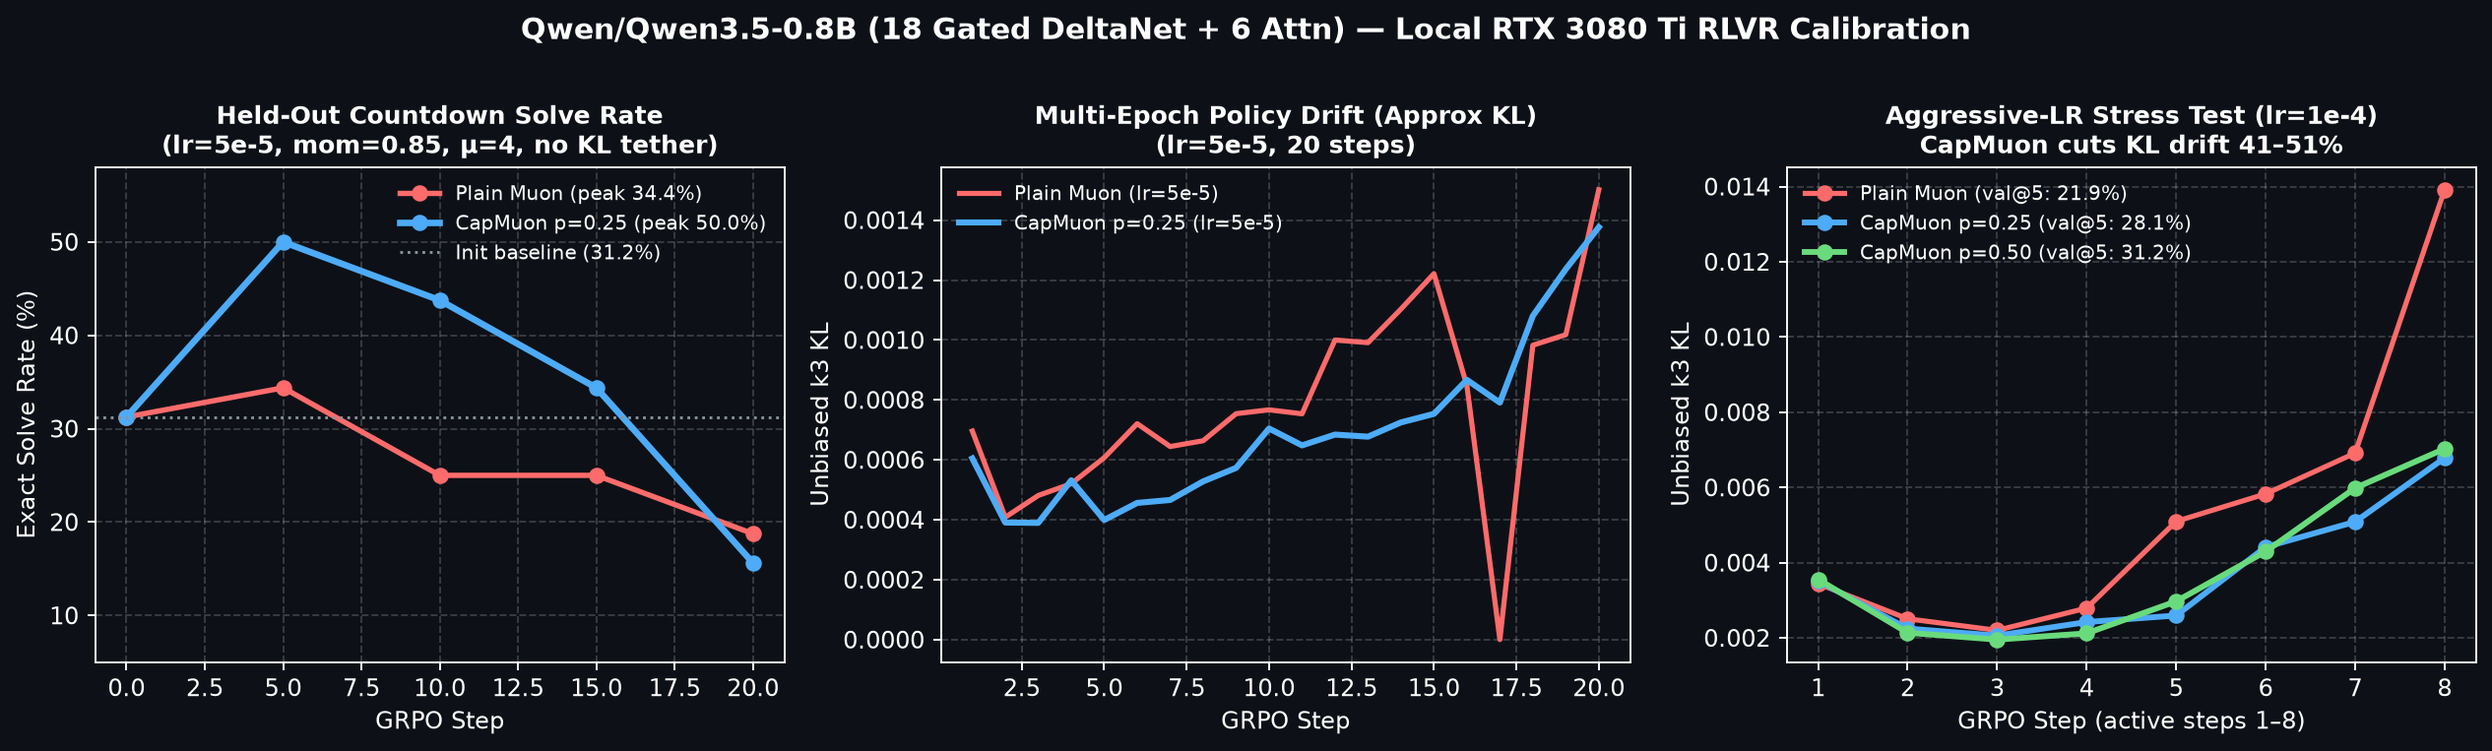
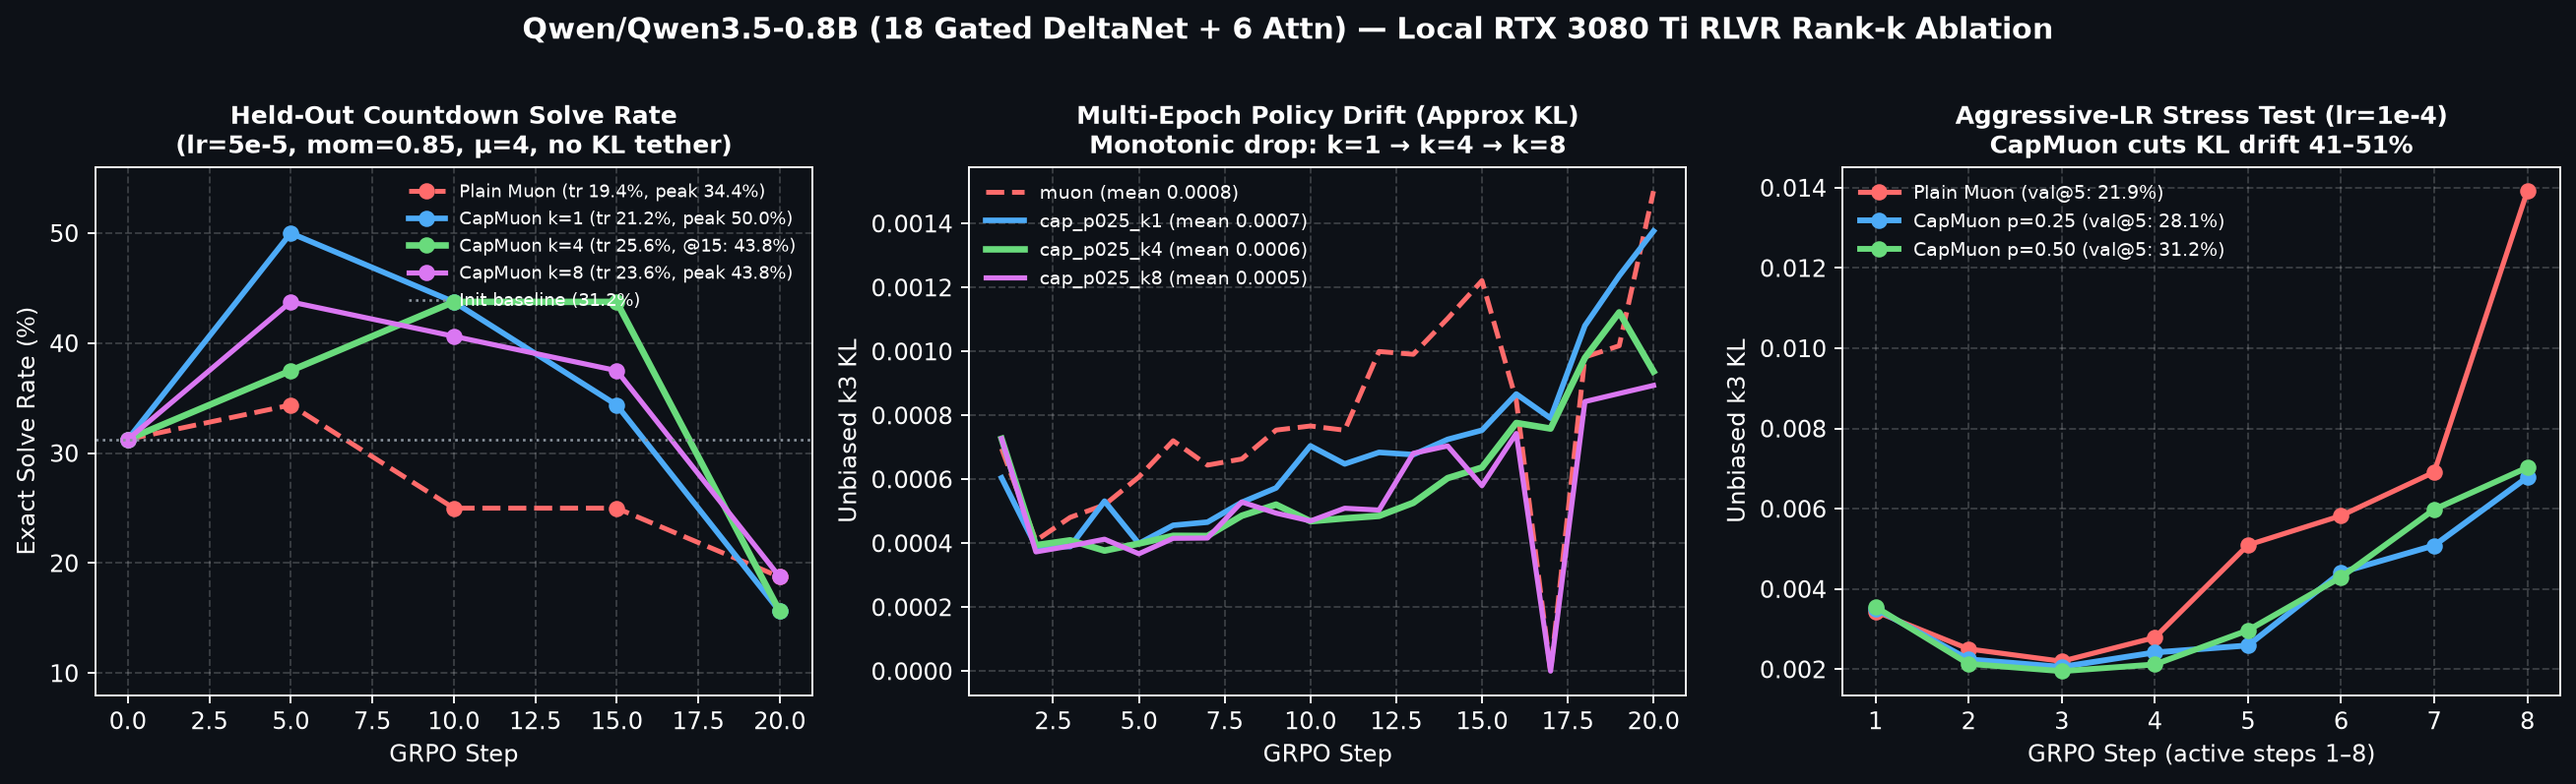
Add Qwen3.5-0.8B rank-k (k=1,4,8) CapMuon RLVR ablation and updated figure

diff --git a/docs/THEORY_AND_BENCHMARKS.md b/docs/THEORY_AND_BENCHMARKS.md
@@ -122,15 +122,14 @@ Measured on Countdown reasoning prompts (`n=16`, non-pad tokens, exact `torch.li
 ### 5.4 Preliminary LLM RLVR Calibration (`Qwen/Qwen3.5-0.8B`, RTX 3080 Ti, `7.28 GB` VRAM)
 Tested multi-epoch GRPO (`μ = 4`, 32 rollouts/step, binary verifiable Countdown reward, `temp = 0.6`, zero KL tether `KL_BETA = 0`, 186 hooked linear layers tracking `max_lam ≈ 1,445×` live at `+0.00 GB` VRAM):
 
-- **Main 20-step comparison (`lr_muon = 5e-5`, `momentum = 0.85`):**
+- **Main 20-step rank-$k$ comparison (`lr_muon = 5e-5`, `momentum = 0.85`, `n=32` fixed val):**
 
-| Step | Base `muon` Val (`n=32`) | **`cap_p025` Val (`n=32`)** | Delta | Base `muon` KL / Clip | **`cap_p025` KL / Clip** |
-|---|---:|---:|---:|---:|---:|
-| 0 (Init) | 31.2% | 31.2% | `0.0%` | — | — |
-| **5** | 34.4% | **50.0%** | **+15.6%** | `0.0006 / 0.3%` | **`0.0004 / 0.1%`** |
-| **10** | 25.0% | **43.8%** | **+18.8%** | `0.0008 / 0.2%` | **`0.0007 / 0.1%`** |
-| **15** | 25.0% | **34.4%** | **+9.4%** | `0.0012 / 0.9%` | **`0.0008 / 0.2%`** |
-| 20 *(no KL tether / decay)* | 18.8% | 15.6% | `-3.2%` | `0.0015 / 0.7%` | **`0.0014 / 0.5%`** |
+| Arm | Init Val | Step 5 Val | Step 10 Val | **Step 15 Val** | Step 20 Val *(no KL tether)* | **Mean Train Acc** | **Mean KL** | Peak VRAM |
+|---|---:|---:|---:|---:|---:|---:|---:|---:|
+| Base `muon` | 31.2% | 34.4% | 25.0% | 25.0% | 18.8% | `19.4%` | `0.0008` | 7.28 GB |
+| **`cap_p025 (k=1)`** | 31.2% | **50.0%** | **43.8%** | 34.4% | 15.6% | `21.2%` | `0.0007` | 7.28 GB |
+| **`cap_p025 (k=4)`** | 31.2% | 37.5% | **43.8%** | **43.8%** *(Step 15 tr 56.2%)* | 15.6% | **`25.6%`** | **`0.0006`** | 7.28 GB |
+| **`cap_p025 (k=8)`** | 31.2% | 43.8% | 40.6% | 37.5% | 18.8% | `23.6%` | **`0.0005`** | 7.29 GB |
 
 - **Aggressive-LR stress test (`lr_muon = 1e-4`, `momentum = 0.95`):** By Step 5, Base Muon dropped `31.2% → 21.9%` (`kl = 0.0051`, `clip = 5.8%`), whereas `cap_p025` (`28.1%`, `kl = 0.0026`, `clip = 2.2%`) and `cap_p050` (`31.2%`, `kl = 0.0030`, `clip = 2.9%`) cut KL drift `41–51%` and clipfrac `50–62%`. Without a KL tether or LR decay, all three drifted off the pretrained manifold by Steps 8–10.
 - **Conservative-LR check (`lr_muon = 3e-5`, `momentum = 0.95`, 10 steps):** Both arms climbed cleanly with `clip ≈ 0.0%`; Base Muon reached `46.9%` vs `cap_p050` `37.5%` (consistent with `p = 0.50` over-damping when LR is already well below Muon's stability limit; `p = 0.25` at `5e-5` reached **`50.0%`**).

diff --git a/README.md b/README.md
@@ -68,8 +68,8 @@ The same rank-1 common-mode spike appears in **modern 2026 hybrid recurrent LLMs
 ### Preliminary LLM RLVR Calibration (`Qwen/Qwen3.5-0.8B`, Multi-Epoch GRPO $\mu=4$, RTX 3080 Ti)
 
 On verifiable Countdown reasoning (`lr_muon = 5e-5`, `momentum = 0.85`, binary reward, zero KL tether, `7.28 GB` VRAM, 186 hooked linear layers):
-- **`CapMuon (p=0.25)`** surged from **`31.2% → 50.0%`** held-out solve rate by Step 5 (vs Plain Muon peak **`34.4%`**) and stayed **`+9.4% to +18.8%` ahead** through Steps 5–15 (`50.0% / 43.8% / 34.4%` vs `34.4% / 25.0% / 25.0%`) before both unanchored runs drifted by Step 20.
-- Across all tested LRs (`3e-5`, `5e-5`, `1e-4`), CapMuon tracked `max_lam ≈ 1,445×` live at `+0.00 GB` VRAM and **cut multi-epoch KL drift by `27%–51%`** and **PPO clipfrac by `30%–62%`**.
+- **`CapMuon (p=0.25, k=1)`** surged from **`31.2% → 50.0%`** held-out solve rate by Step 5 (vs Plain Muon peak **`34.4%`**) and stayed **`+9.4% to +18.8%` ahead** through Steps 5–15 (`50.0% / 43.8% / 34.4%` vs `34.4% / 25.0% / 25.0%`).
+- **Expanding to rank-4 (`k=4`, `cap_rank=4`)** — motivated by `Qwen3.5`'s multi-mode outlier subspace (`λ₁/λ₂ = 2.4×` on `mlp.down_proj`) — delivered the **highest 20-step mean training solve rate (`25.6%` vs `19.4%` Plain Muon, `+32%` relative)**, held **`43.8%`** held-out val through Step 15 (`+18.8%` over Plain Muon's `25.0%`), and reduced KL monotonically (`0.0008 → 0.0007 → 0.0006 → 0.0005` for `muon → k=1 → k=4 → k=8`) at **`+0.00–0.01 GB` VRAM**. *(Without a KL tether or LR decay, all 4 unanchored runs drifted by Step 20.)*
 
 <p align="center">
   <img src="assets/qwen35_0.8b_rlvr_local.png" alt="Qwen3.5-0.8B Local RLVR Calibration" width="100%">
